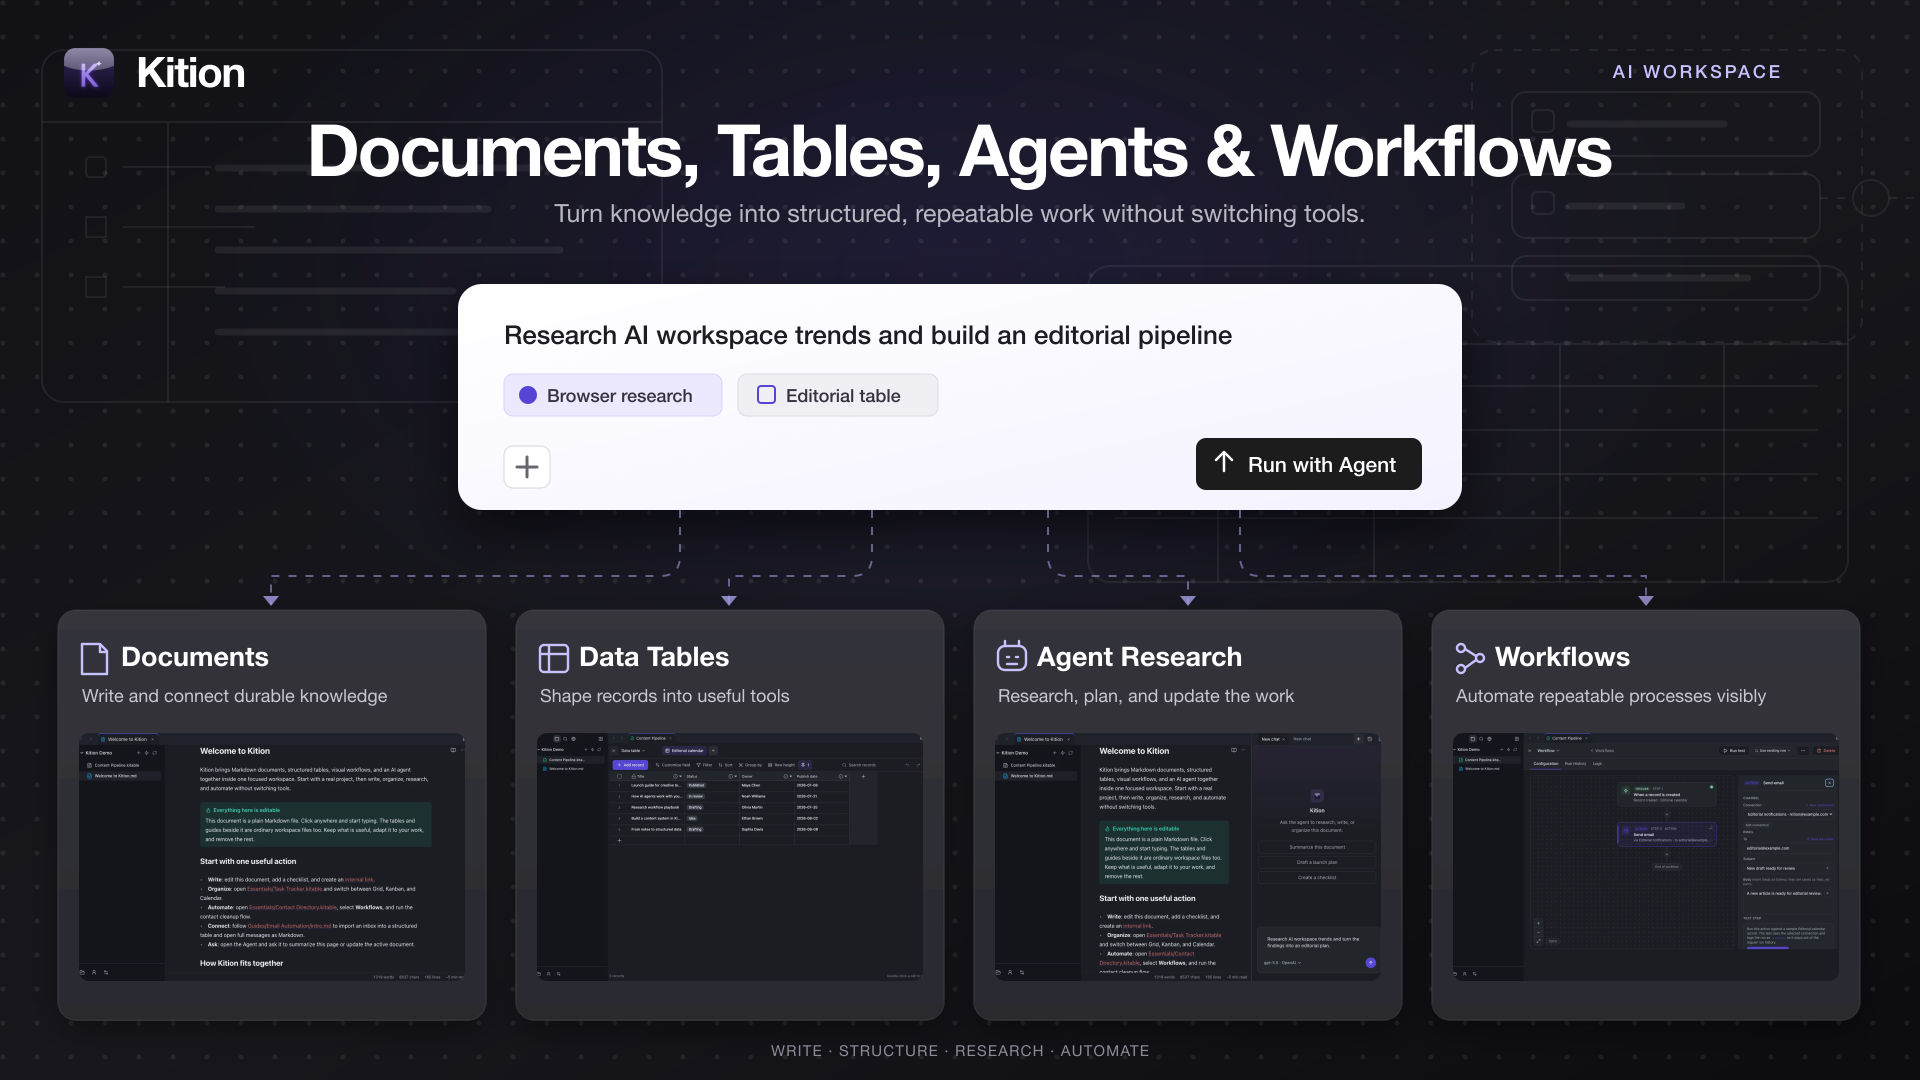
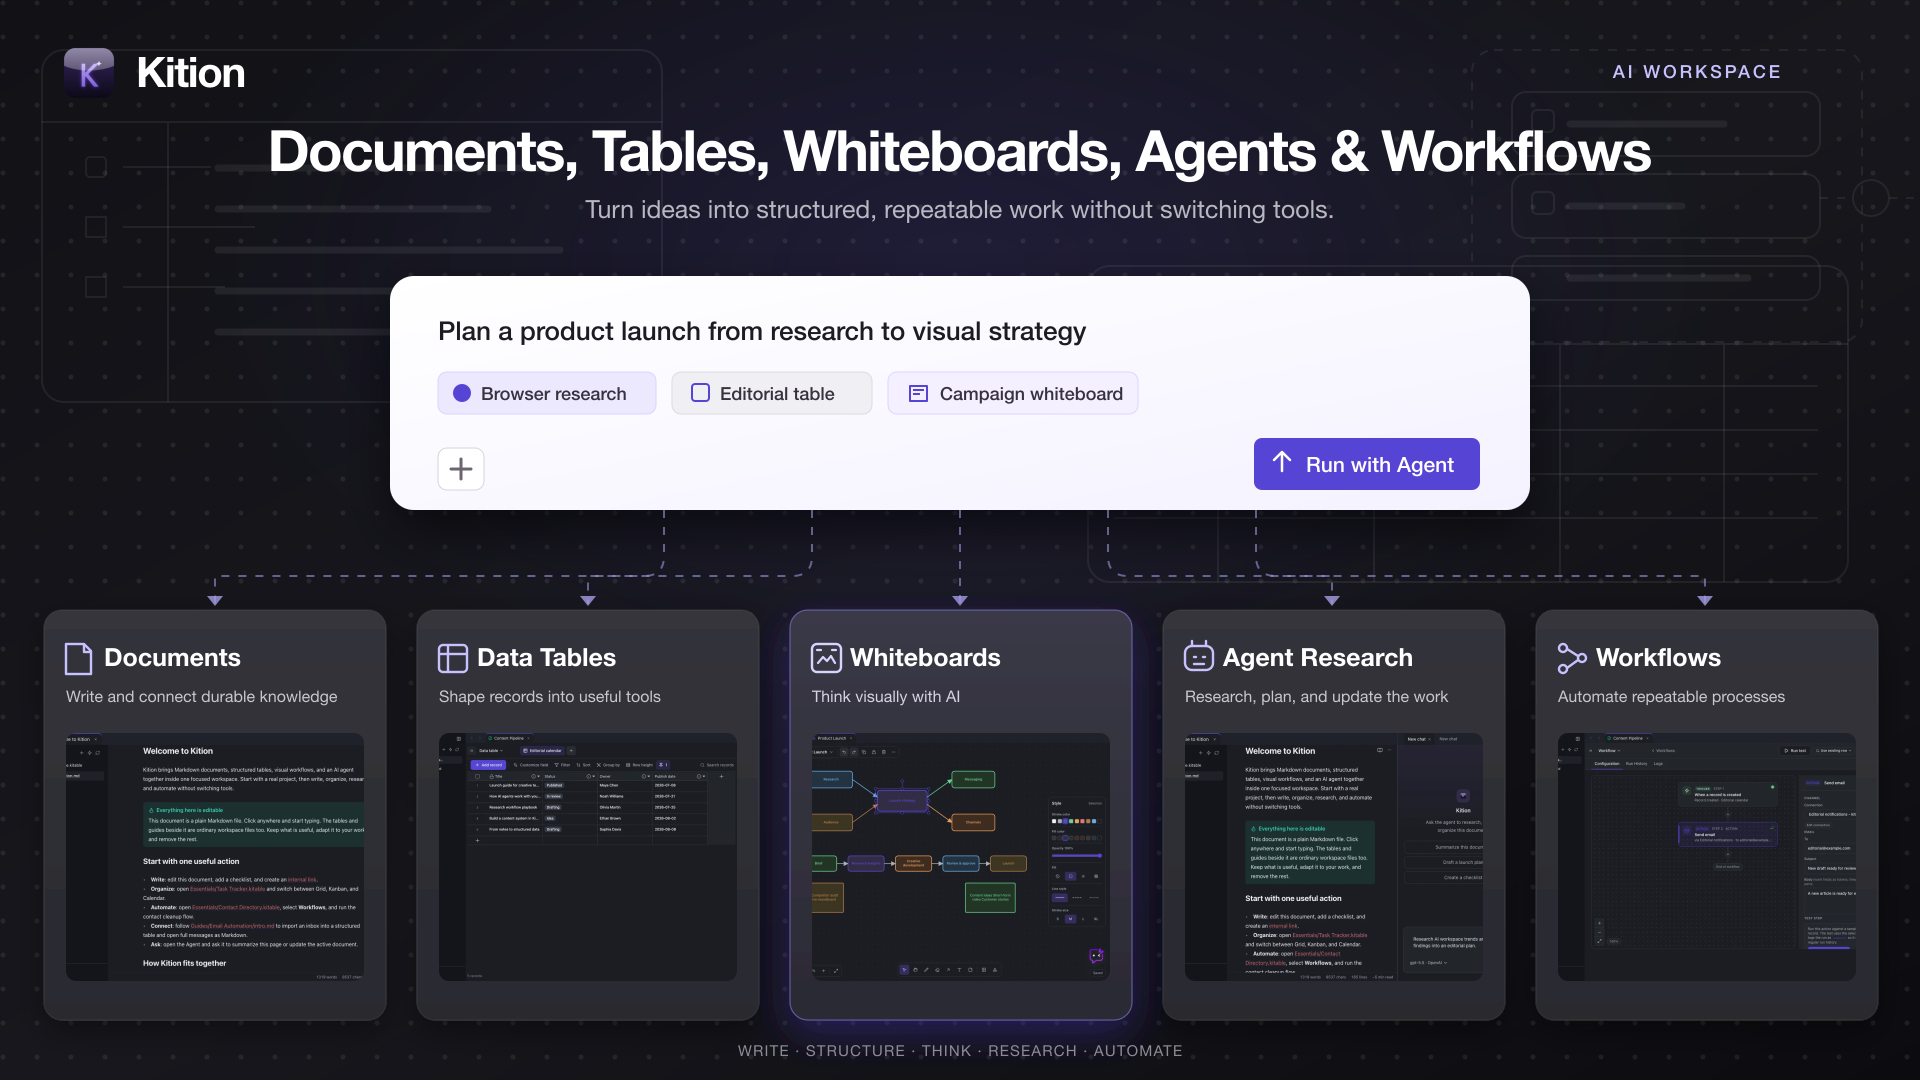
docs(readme): showcase whiteboard workspace

diff --git a/README.md b/README.md
@@ -14,8 +14,8 @@
 </p>
 
 <p align="center">
-  <strong>Documents, Tables, Agents, and Workflows in one desktop workspace.</strong><br />
-  Write connected knowledge, build data tools, research in the browser, and automate repeatable work.
+  <strong>Documents, Tables, Whiteboards, Agents, and Workflows in one desktop workspace.</strong><br />
+  Write connected knowledge, think visually, build data tools, research in the browser, and automate repeatable work.
 </p>
 
 <p align="center">
@@ -39,11 +39,12 @@
 </p>
 
 <p align="center">
-  <img src="docs/readme/kition-overview.webp" alt="Kition product overview showing documents, structured data tables, Agent research, and visual workflows" width="100%" />
+  <img src="docs/readme/kition-overview.webp" alt="Kition product overview showing documents, structured data tables, the dark Whiteboard workspace, Agent research, and visual workflows" width="100%" />
 </p>
 
-Kition brings Markdown documents, structured table files, a tool-using AI
-agent, browser research, and visual workflows into one desktop workspace.
+Kition brings Markdown documents, structured table files, an infinite
+Whiteboard, a tool-using AI agent, browser research, and visual workflows into
+one desktop workspace.
 Instead of making every task begin in a blank chat, Kition gives the Agent
 editable project files, typed records, attachments, and visible processes to
 work with. This makes powerful AI operations easier to inspect, correct, and
@@ -58,6 +59,9 @@ repeat without handing context between disconnected tools.
   callouts, code, math, diagrams, daily notes, search, and export.
 - **Structured data beside the knowledge.** Turn research and content into
   typed records, formulas, filters, groups, views, attachments, and AI fields.
+- **Visual thinking with reviewable AI changes.** Build diagrams, mind maps,
+  flows, and freeform sketches, then review Agent proposals before applying
+  them to the Whiteboard.
 - **An Agent that can act.** Research in browser tabs, inspect documents and
   table schemas, update content, and save useful output into the active project.
 - **Reviewable document edits.** Let the Agent edit the active document, inspect
@@ -133,8 +137,9 @@ regenerate, and hand off than a collection of disconnected chat outputs.
 </p>
 
 These scenarios show the intended Kition loop: use documents for narrative
-context, tables for structured state, the Agent for uncertain work, and
-Workflows for steps that should become repeatable.
+context, tables for structured state, Whiteboards for visual thinking, the
+Agent for uncertain work, and Workflows for steps that should become
+repeatable.
 
 ## Product Tour
 
@@ -184,8 +189,20 @@ plan. Agent output can be written back into the active workspace.
 </tr>
 <tr>
 <td width="58%">
-  <img src="docs/readme/workflows.webp" alt="Kition visual workflow canvas with a trigger, action, configuration, and test controls" width="100%" />
+  <img src="docs/readme/whiteboards.webp" alt="Kition dark Whiteboard workspace with connected nodes, a selected launch strategy, style controls, and drawing tools" width="100%" />
 </td>
+<td width="42%" valign="middle">
+
+### Think and plan visually
+
+Build diagrams, mind maps, flowcharts, sticky-note clusters, and freeform
+sketches on an infinite canvas. The Agent can inspect the board, propose typed
+changes, and let you accept or reject the preview before it becomes part of the
+workspace.
+
+</td>
+</tr>
+<tr>
 <td width="42%" valign="middle">
 
 ### Automate repeatable work
@@ -194,6 +211,9 @@ Build trigger-and-action workflows on a visual canvas. Start from a template,
 assemble a workflow manually, test individual steps, inspect run history, and
 resolve missing inputs before enabling it.
 
+</td>
+<td width="58%">
+  <img src="docs/readme/workflows.webp" alt="Kition visual workflow canvas with a trigger, action, configuration, and test controls" width="100%" />
 </td>
 </tr>
 </table>
@@ -250,7 +270,8 @@ most client-side contributions. More options are documented in
 
 This repository contains the public React and Electron client:
 
-- document, table, Agent, browser, settings, email, scenario, and workflow UI;
+- document, table, Whiteboard, Agent, browser, settings, email, scenario, and
+  workflow UI;
 - the Electron shell and desktop integration;
 - public runtime contracts, mocks, fixtures, and black-box tests;
 - packaging and unified release workflows.
